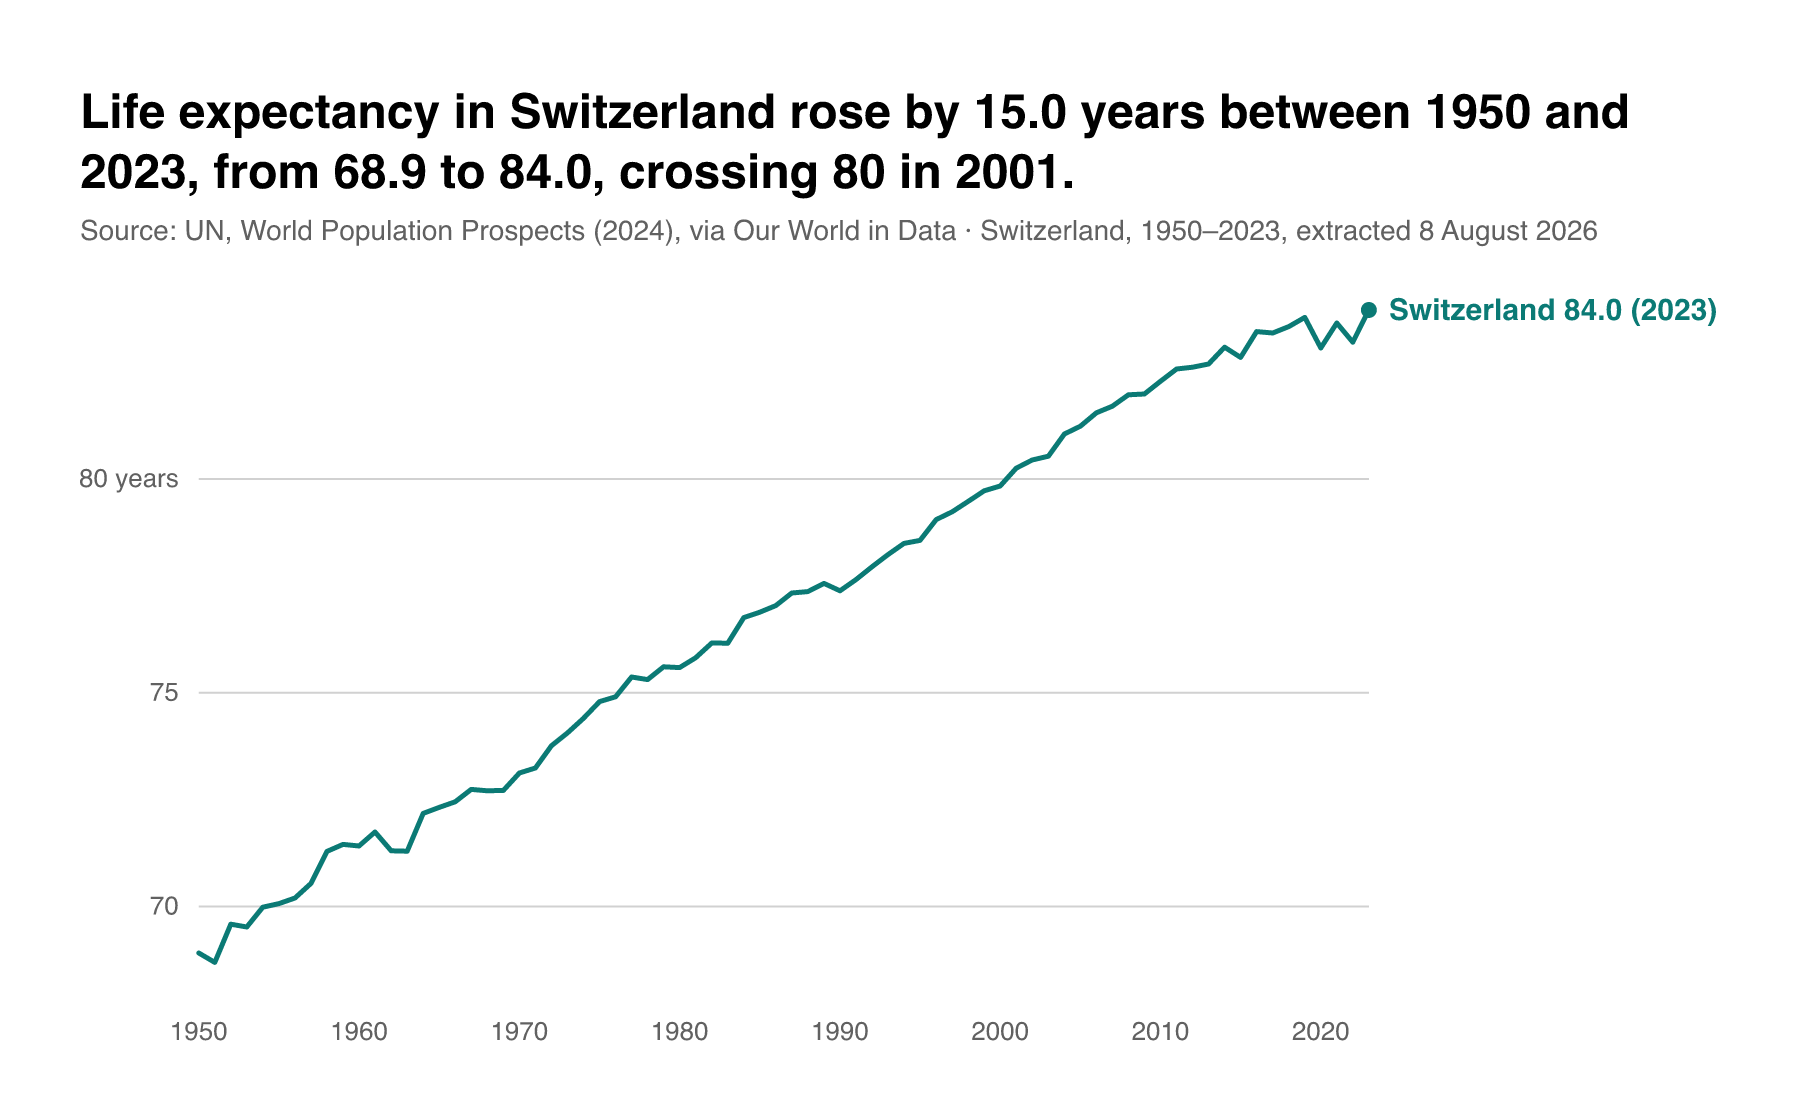
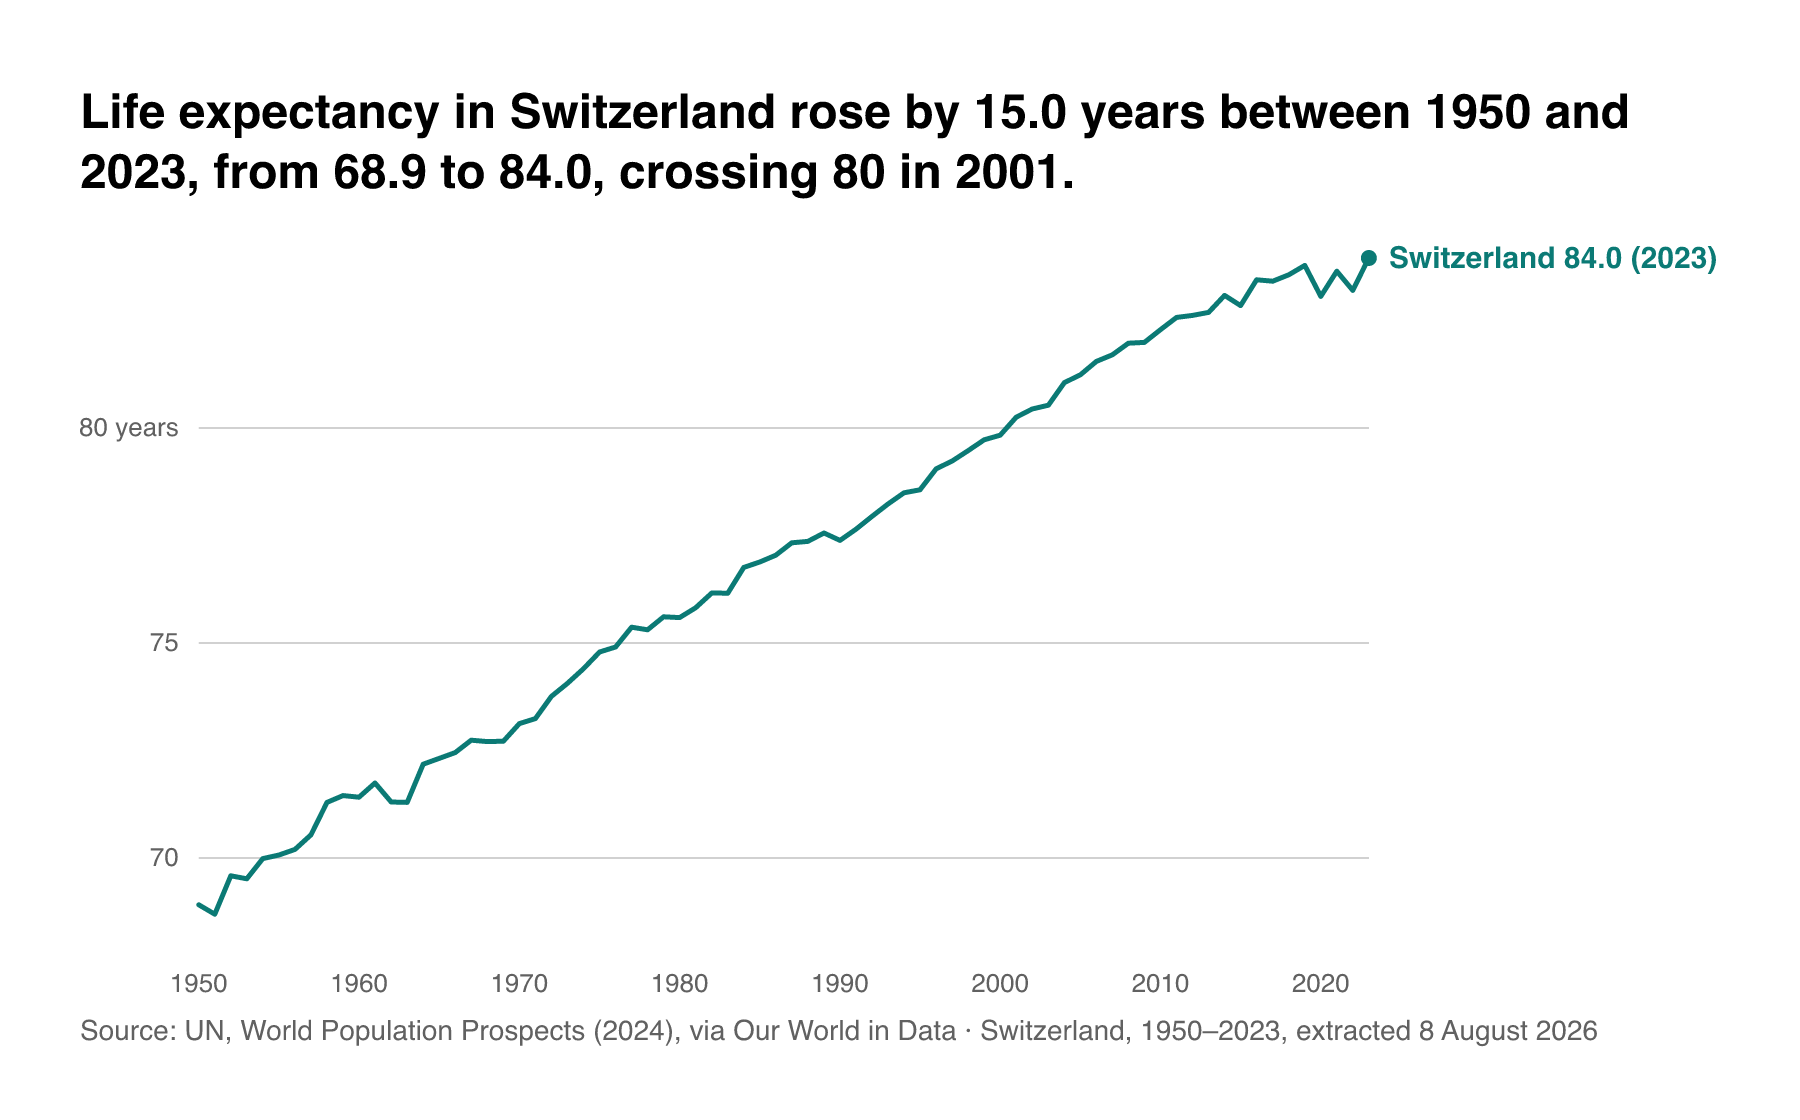
W2 §3.4.2 (part): three static chart beats take the credit to the bottom
The same three edits per component the seeds took: sourceBaseline anchored to
height - PAD, padding.top re-pointed at the last HEADER line rather than at the
source, and padding.bottom grown by the source block's own height plus clear
air, so the axis band beneath the plot ends above the source's ink.

The general rule these three establish for the rest of the family: the new
bottom reserve is the OLD expression plus (sourceLines.length - 1) * lead +
SOURCE.fontSize + 10. Nothing horizontal changes in any of them.

All three re-rendered and opened: boxplot (decade labels + n= rows clear of the
source), line (x-axis decades clear), lollipop (axis ticks clear).

proof/co2-suisse/EmissionsLine.tsx was migrated and then REVERTED: that beat
ships no runner for its own still (co2-suisse-still.png has no reproducing
script anywhere in the tree), so the change could not be proved by opening an
artifact. It needs a runner before it can be migrated, and that is recorded
rather than worked around.

diff --git a/twin/proof/more-boxplot-france-co2-decades/DecadeBoxplot.tsx b/twin/proof/more-boxplot-france-co2-decades/DecadeBoxplot.tsx
@@ -183,8 +183,10 @@ export function DecadeBoxplot({
 
   const titleLines = wrap(title, width - PAD * 2, TITLE);
   const titleBaseline = PAD + TITLE.fontSize;
-  const sourceBaseline =
-    titleBaseline + (titleLines.length - 1) * TITLE.lead + 26;
+  // THE SOURCE SITS ON THE FRAME'S OWN BOTTOM MARGIN — `height - PAD`, the same inset the title
+  // hangs off at the top, on the same x. See twin-chart-beat/references/static-discipline.md,
+  // "The source on the frame's bottom margin."
+  const sourceBaseline = height - PAD;
 
   // Both gutters are measured from the widest string that will actually be drawn in them, never
   // a fixed constant (`static-discipline.md`, "Gutters are measured, never fixed").
@@ -206,10 +208,19 @@ export function DecadeBoxplot({
   const categoryLines = summaries.map((s) => [s.label, `n=${s.n}`]);
 
   const padding = {
-    top: sourceBaseline + 30,
+    top: titleBaseline + (titleLines.length - 1) * TITLE.lead + 30,
     right: PAD + 40, // room for an outlier label sitting to the right of its dot
+    // Grown by the source block's own height plus clear air: the source now sits on the
+    // frame's bottom margin, so the axis band beneath the plot has to end above its ink.
     bottom:
-      PAD + AXIS.fontSize + 6 + CATEGORY_LABEL.fontSize + 4 + N_LABEL.fontSize,
+      PAD +
+      AXIS.fontSize +
+      6 +
+      CATEGORY_LABEL.fontSize +
+      4 +
+      N_LABEL.fontSize +
+      SOURCE.fontSize +
+      10,
     left: leftGutter,
   };
 

diff --git a/twin/proof/more-line-swiss-life-expectancy/LifeExpectancyLine.tsx b/twin/proof/more-line-swiss-life-expectancy/LifeExpectancyLine.tsx
@@ -158,8 +158,10 @@ export function LifeExpectancyLine({
 
   const titleLines = wrap(title, width - PAD * 2, TITLE);
   const titleBaseline = PAD + TITLE.fontSize;
-  const sourceBaseline =
-    titleBaseline + (titleLines.length - 1) * TITLE.lead + 26;
+  // THE SOURCE SITS ON THE FRAME'S OWN BOTTOM MARGIN — `height - PAD`, the same inset the title
+  // hangs off at the top, on the same x. See twin-chart-beat/references/static-discipline.md,
+  // "The source on the frame's bottom margin."
+  const sourceBaseline = height - PAD;
 
   // Both gutters are measured from the widest string that will actually be drawn in them, never
   // a constant (`static-discipline.md`, "Gutters are measured, never fixed").
@@ -171,9 +173,11 @@ export function LifeExpectancyLine({
     i === all.length - 1 ? `${v} ${UNIT}` : `${v}`,
   );
   const padding = {
-    top: sourceBaseline + 34,
+    top: titleBaseline + (titleLines.length - 1) * TITLE.lead + 34,
     right: PAD + 12 + measureText(endLabel, END_LABEL),
-    bottom: PAD + 24,
+    // Grown by the source block's own height plus clear air: the source now sits on the
+    // frame's bottom margin, so the axis band beneath the plot has to end above its ink.
+    bottom: PAD + 24 + SOURCE.fontSize + 10,
     left:
       PAD +
       10 +

diff --git a/twin/proof/more-lollipop-co2-per-capita/LollipopCo2.tsx b/twin/proof/more-lollipop-co2-per-capita/LollipopCo2.tsx
@@ -165,8 +165,10 @@ export function LollipopCo2({
 
   const titleLines = wrap(title, width - PAD * 2, TITLE);
   const titleBaseline = PAD + TITLE.fontSize;
-  const sourceBaseline =
-    titleBaseline + (titleLines.length - 1) * TITLE.lead + 26;
+  // THE SOURCE SITS ON THE FRAME'S OWN BOTTOM MARGIN — `height - PAD`, the same inset the title
+  // hangs off at the top, on the same x. See twin-chart-beat/references/static-discipline.md,
+  // "The source on the frame's bottom margin."
+  const sourceBaseline = height - PAD;
 
   // Both gutters are measured from the widest string that will actually be drawn in them — a
   // fixed constant here is exactly the failure class `references/types/lollipop.md` names for
@@ -181,9 +183,11 @@ export function LollipopCo2({
   );
 
   const padding = {
-    top: sourceBaseline + 30,
+    top: titleBaseline + (titleLines.length - 1) * TITLE.lead + 30,
     right: PAD + 14 + widestValueLabel,
-    bottom: PAD + 30,
+    // Grown by the source block's own height plus clear air: the source now sits on the
+    // frame's bottom margin, so the axis band beneath the plot has to end above its ink.
+    bottom: PAD + 30 + SOURCE.fontSize + 10,
     left: PAD + 10 + widestCategory,
   };
 
